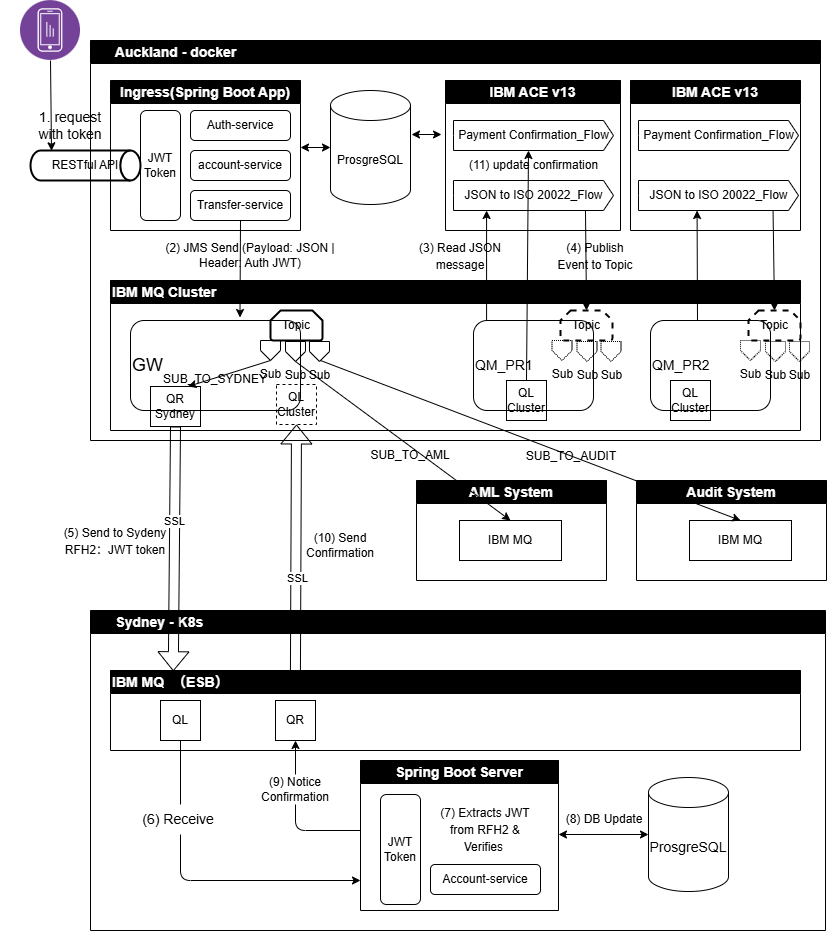
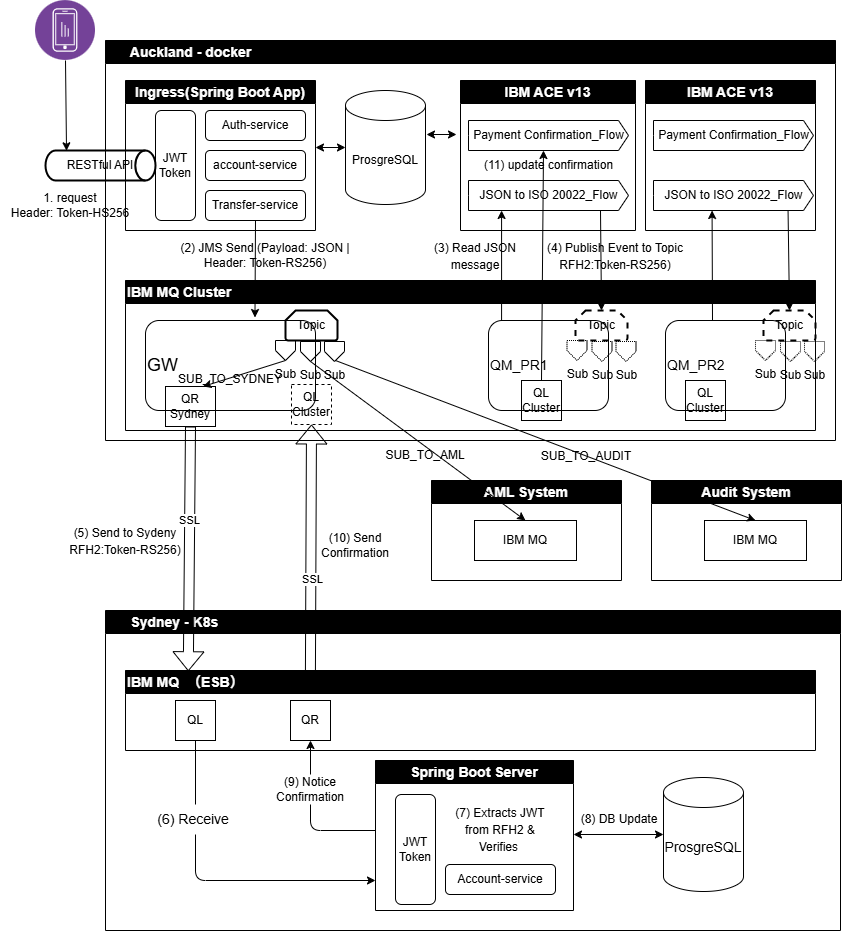
fix

diff --git a/README.md b/README.md
@@ -15,102 +15,6 @@ This repository showcases a **production-ready, bank-grade integration solution*
 
 ![Cross-Tasman Payment Hub Architecture](./diagram1.png)
 
-
-
-
-
-
-
-
-
-
-
-
-
-
-
-
-
-
-
-
-
-
-
-
-```text
-Auckland Region (Active-Active Docker Cluster)                      Cross-Sea Transit                Sydney Region (K8s Host)
-============================================================        =================                ========================
-
-  +-----------------------+
-  |  Mobile App / Client  |
-  +-----------+-----------+
-              | (1) POST /transfer (with OAuth2 Bearer Token)
-              ▼
-  +-----------+-----------+
-  |   Auckland Ingress    |  -- [JWT Authenticated & Verified]
-  |   (Spring Boot App)   |  -- [Executes local account debit]
-  +-----------+-----------+
-              | (2) JMS Send (Payload: JSON | Header: Auth JWT)
-              ▼
-    [QM_AKL_FR Gateway] ── (Automatic Workload Balancing)
-         /         \
-        ▼ (PR1)     ▼ (PR2)
-  +-----------+  +-----------+
-  |  QM_AKL   |  |  QM_AKL   |  -- (Partial Repositories)
-  |   _PR1    |  |   _PR2    |  -- (Active-Active Cluster)
-  +-----+-----+  +-----+-----+
-        |              |
-        +------+-------+ (3) Read JSON message
-               ▼
-  +-----------+-----------+
-  |     IBM ACE v13       |  -- [Decrypts Credentials via mqsivault]
-  |   (Active-Active)     |  -- [Cleanses & Transforms JSON to ISO 20022 XML]
-  +-----------+-----------+  -- [Preserves JWT Token in MQ RFH2 User Header]
-              | (4) Publish Event to Topic: "Payment/CrossBorder/Initiated"
-              ▼
-    [ PAYMENT.INITIATED.TOPIC ]
-         /         |         \  (Fan-out Pub-Sub)
-        /          |          \______________________________________
-       /           |                                                 \
-      ▼            ▼                                                 ▼
-[SUB_TO_SYDNEY]  [SUB_TO_AUDIT]                                    [SUB_TO_AML]
-  (Core Tx)        (Audit Pipeline)                                  (AML Scoring Engine)
-      |            |                                                 |
-      ▼            ▼                                                 ▼
-  [QALIAS]     [QLOCAL]                                          [QLOCAL]
-PAYMENT.TO.SYDNEY  PAYMENT.AUDIT.Q                                   PAYMENT.AML.Q
-      |            (Dumps payload                                    (Dumps payload 
-      ▼            to ELK Index)                                     to AML Analyzer)
-[QREMOTE]
-PAYMENT.CROSSBORDER.OUT
-      |
-      ▼ (5) Cluster Routing (PR1/PR2 -> FR Gate -> Sender Channel)
-+-----+-----+
-|  QM_AKL_FR| -- (Establishes Sender-Receiver Channel over TCP)
-+-----+-----+
-      |
-      |~~~~~~~~~~~~~~~~~~~~~~~~~~~~~~~~~~~~~~~~~~~~~~~~~~~~~~~~~~~~~~~~~~~~~~~~~~~~~~~~~ (Over the Tasman Sea)
-      |
-      ▼ (6) TCP/IP port: 31414
-  +-----------+
-  |  QM_SYD   | -- (Sydney Gateway Queue Manager)
-  +-----+-----+
-        |
-        ▼ (7) Message Arrives: PAYMENT.CROSSBORDER.OUT (Local Q)
-  +-----------+-----------+
-  |  Sydney Receiver Serv | -- [Consumes pacs.008 XML via JMS]
-  |   (Spring Boot App)   | -- [Extracts JWT from RFH2 & Verifies Offline via Cryptography]
-  +-----------+-----------+ -- [Performs Atomic updates to Sydney Balance Database]
-              |
-              ▼ (8) DB Update (Balance Credit + Audit Trace)
-  +-----------+-----------+
-  | Sydney PostgreSQL DB  |
-  +-----------------------+
-```
-
----
-
 ## 🌟 Technical Highlights & Core Capabilities
 
 ### 1. Modern Asynchronous Security: OAuth2 to JWT "Token Pass-Through"
